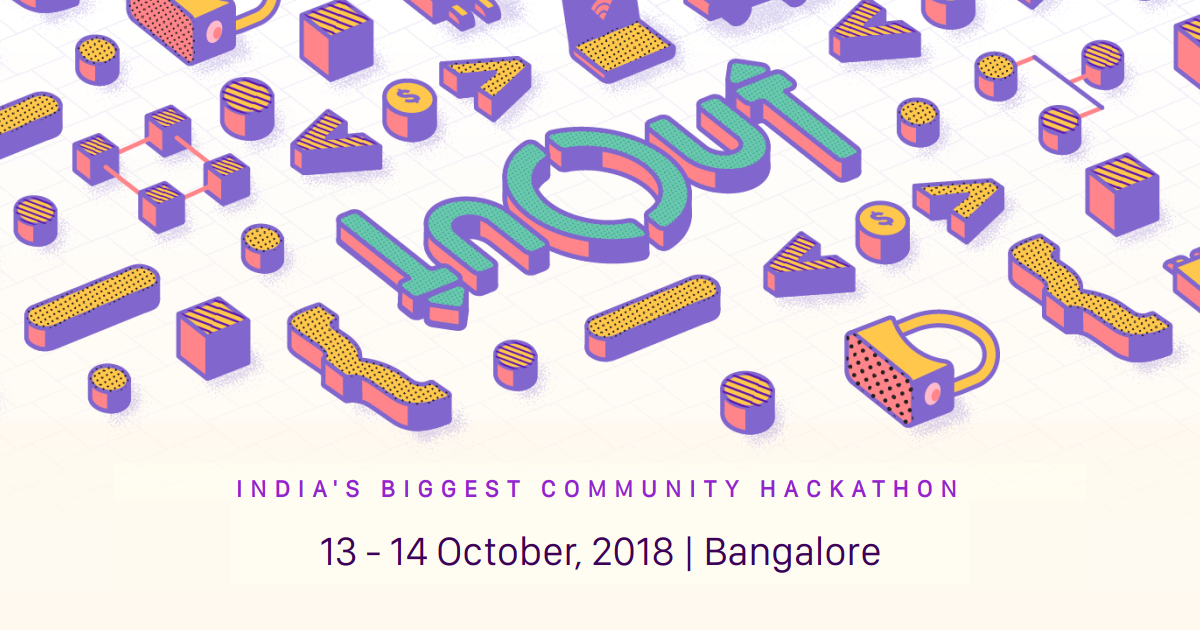
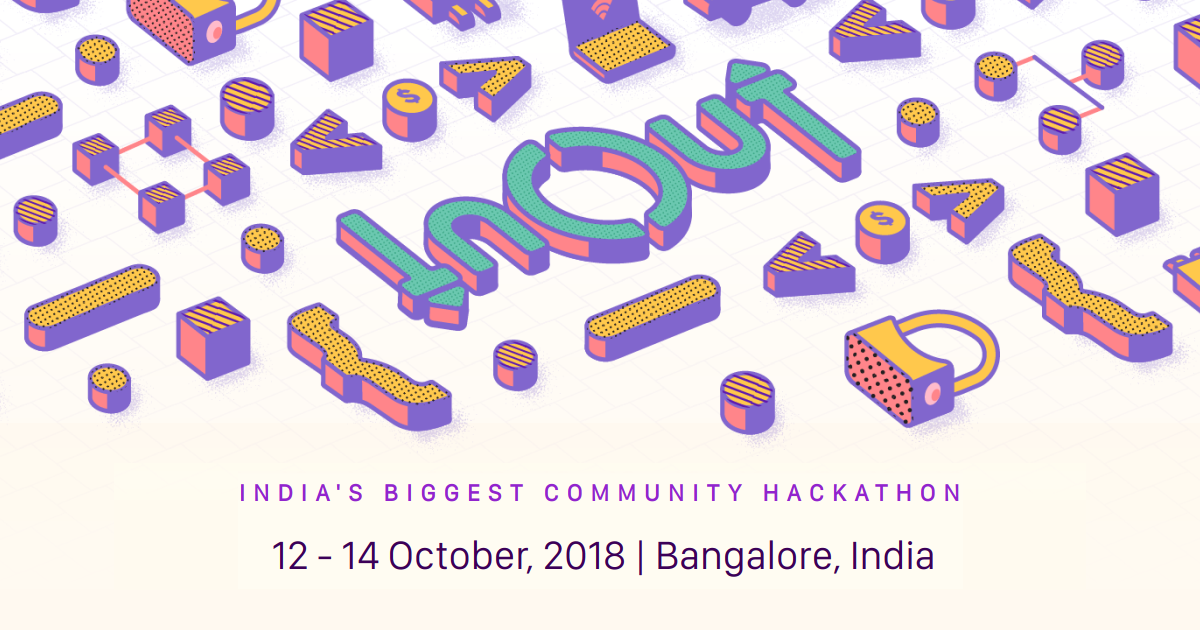
sponsors image updated

Changed region(s): [[0.2158, 0.8444, 0.8017, 0.9048], [0.185, 0.754, 0.8017, 0.8143]]

diff --git a/src/index.html b/src/index.html
@@ -5,11 +5,11 @@
   <meta charset="utf-8">
   <meta http-equiv="X-UA-Compatible" content="IE=edge">
   <meta name="viewport" content="width=device-width, initial-scale=1, shrink-to-fit=no">
-  <title>InOut 5.0 | October 13 - 14, 2018</title>
+  <title>InOut 5.0 | October 12 - 14, 2018</title>
 
   <!-- Meta tags -->
   <meta property="fb:app_id" content="349176421957919" />
-  <meta property="og:title" content="InOut 5.0 | October 13 - 14, 2018">
+  <meta property="og:title" content="InOut 5.0 | October 12 - 14, 2018">
   <meta property="og:type" content="website">
   <meta property="og:url" content="https://hackinout.co">
   <meta property="og:image" content="https://hackinout.co/img/fb-og.png" />
@@ -19,10 +19,10 @@
   <meta name="twitter:card" content="summary_large_image">
   <meta name="twitter:creator" content="@hackinoutco">
   <meta name="twitter:site" content="@hackinoutco">
-  <meta name="twitter:title" content="InOut 5.0 | October 13 - 14, 2018">
+  <meta name="twitter:title" content="InOut 5.0 | October 12 - 14, 2018">
   <meta name="twitter:description" content="InOut is India's biggest community hackathon, characterized by remarkable rounds of intense coding and brainstorming! Come together for 30 hours with the brightest developers and designers to create something amazing.">
   <meta name="twitter:domain" content="https://hackinout.co">
-  <meta name="twitter:image:src" content="https://hackinout.co/img/twitter-image.png">
+  <meta name="twitter:image:src" content="https://hackinout.co/img/twitter-og.png">
   <meta name="description" content="InOut 5.0: India's biggest community hackathon.">
   <meta name="keywords" content="inout, inout hackathon, hackathon, hackathon ideas, hackathon bangalore, hackathon india, hackathon hackers india, bangalore, community, hackathon community, developer community, developer relations, api, sdk, technology, startups, innovation, hacks"
   />
@@ -135,7 +135,7 @@
       <div class="d-flex justify-content-center flex-column flex-md-row align-items-center">
         <div class="header-text mx-lg-5 text-center text-md-left">
           <div class="subtitle">Fifth Edition</div>
-          <div class="title mt-2">13 - 14 October, 2018 | Bangalore, India</div>
+          <div class="title mt-2">12 - 14 October, 2018 | Bangalore, India</div>
         </div>
         <div class="mx-md-5 mt-md-0 mt-5">
           <button class="btn btn-primary btn-lg py-3 px-5 disabled apply-btn" id="applynow-button-hero">
@@ -602,7 +602,7 @@
 
             <div id="collapseTwelve" class="collapse" aria-labelledby="faqTwelve" data-parent="#accordion">
               <div class="card-body pt-2">
-                Yes! Once accepted, you will have to submit your travel reimbursement forms and receipts on the Dashboard. For each location
+                Yes! Once accepted, you will have to submit your travel reimbursement forms and receipts on the dashboard. For each location
                 hackers travel from, we’ll determine a reasonable cap. We will reimburse travel costs up to this cap only.
               </div>
             </div>
@@ -645,10 +645,10 @@
         </p>
         <div class="contact-links">
           <a href="https://twitter.com/hackinoutco" target="_blank">
-            <img src="img/icon-tweet.svg" alt="Twitter"> Tweet us
+            <img src="img/icon-tweet.svg" alt="Twitter"> Tweet us your questions
           </a>
-          <a href="mailto:mail@hackinout.co">
-            <img src="img/icon-mail.svg" alt="Email"> Email us
+          <a href="mailto:mail@hackinout.co" target="_blank">
+            <img src="img/icon-mail.svg" alt="Email"> mail@hackinout.co
           </a>
         </div>
       </div>
